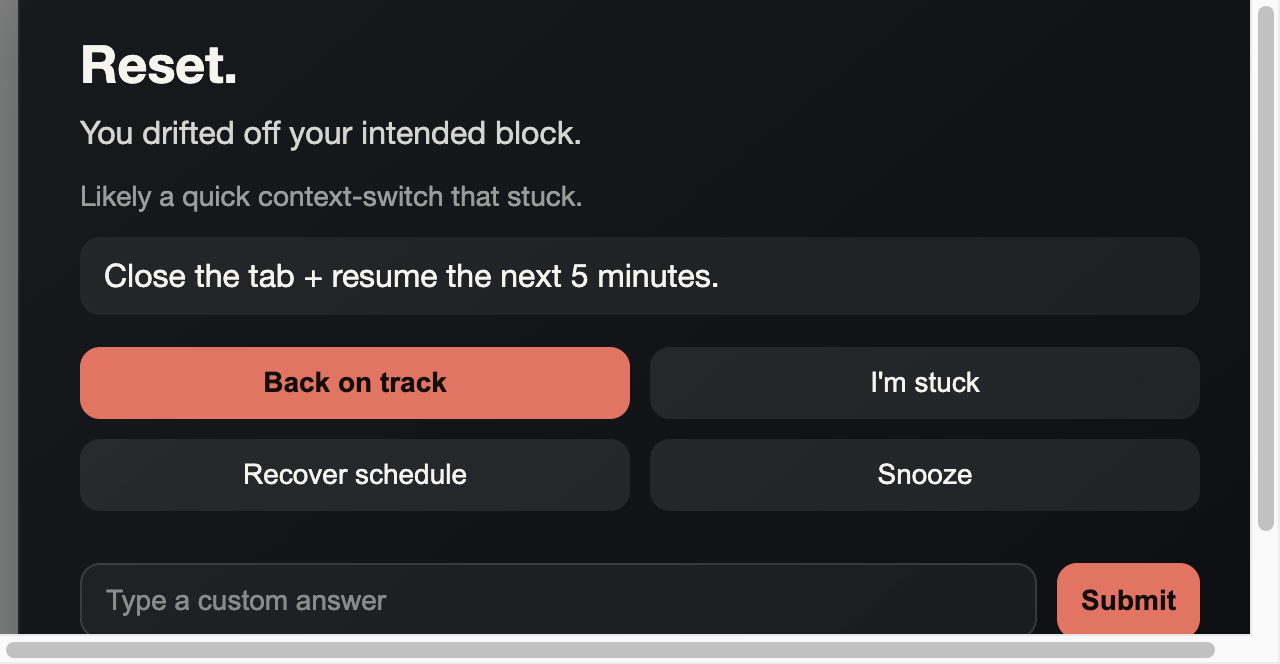
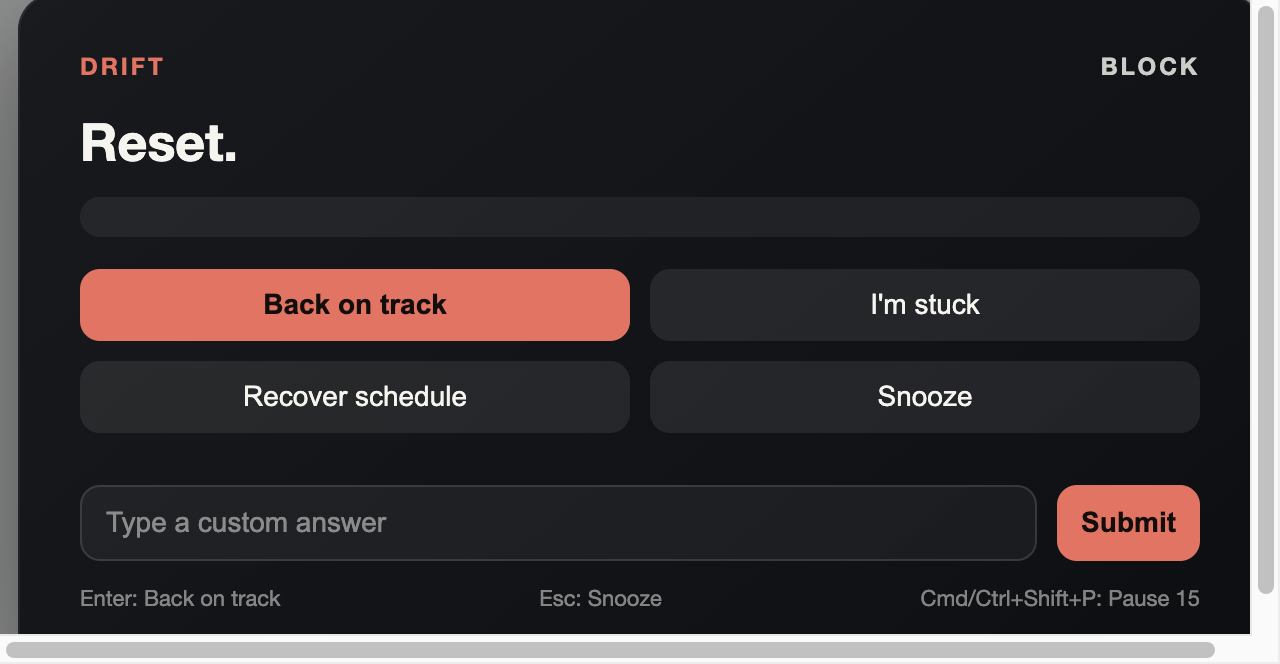
overlay: enable DRIFT_PERSIST pattern-break via source_event_type

diff --git a/overlay/overlay.js b/overlay/overlay.js
@@ -1,5 +1,6 @@
 const overlay = document.getElementById("overlay");
 const eventLabel = document.getElementById("eventLabel");
+const eventLabel = document.getElementById("eventLabel");
 const blockName = document.getElementById("blockName");
 const headline = document.getElementById("headline");
 const humanLine = document.getElementById("humanLine");
@@ -64,6 +65,9 @@ function showOverlay(payload) {
   overlay.dataset.eventType = eventType;
   setText(eventLabel, labelForEventType(eventType));
 
+  const eventType = payload.source_event_type || payload.event_type || "";
+  overlay.dataset.eventType = eventType;
+  setText(eventLabel, eventType ? eventType.replace(/_/g, " ") : "");
   setText(blockName, payload.block_name || "");
   updatePrimaryLabel(payload);
   setText(headline, payload.headline || "Reset.");

diff --git a/runner.py b/runner.py
@@ -1120,6 +1120,7 @@ def main() -> int:
                 "ts": now.isoformat(),
                 "cmd_id": ensure_uuid(),
                 "source_event_id": None,
+                "source_event_type": "ALIGN_REQUIRED",
                 "source": "runner",
                 "level": "B",
                 "style_id": "calm",
@@ -1159,6 +1160,7 @@ def main() -> int:
                     "ts": dt.datetime.now().isoformat(),
                     "cmd_id": ensure_uuid(),
                     "source_event_id": event.get("event_id"),
+                    "source_event_type": event.get("type"),
                     "source": "runner",
                     "level": "B",
                     "style_id": "strict",
@@ -1178,6 +1180,7 @@ def main() -> int:
                     "ts": dt.datetime.now().isoformat(),
                     "cmd_id": ensure_uuid(),
                     "source_event_id": event.get("event_id"),
+                    "source_event_type": event.get("type"),
                     "source": "runner",
                     "level": "A",
                     "style_id": "calm",
@@ -1196,6 +1199,7 @@ def main() -> int:
                     "ts": dt.datetime.now().isoformat(),
                     "cmd_id": ensure_uuid(),
                     "source_event_id": event.get("event_id"),
+                    "source_event_type": event.get("type"),
                     "source": "runner",
                     "level": "B",
                     "style_id": "strict",
